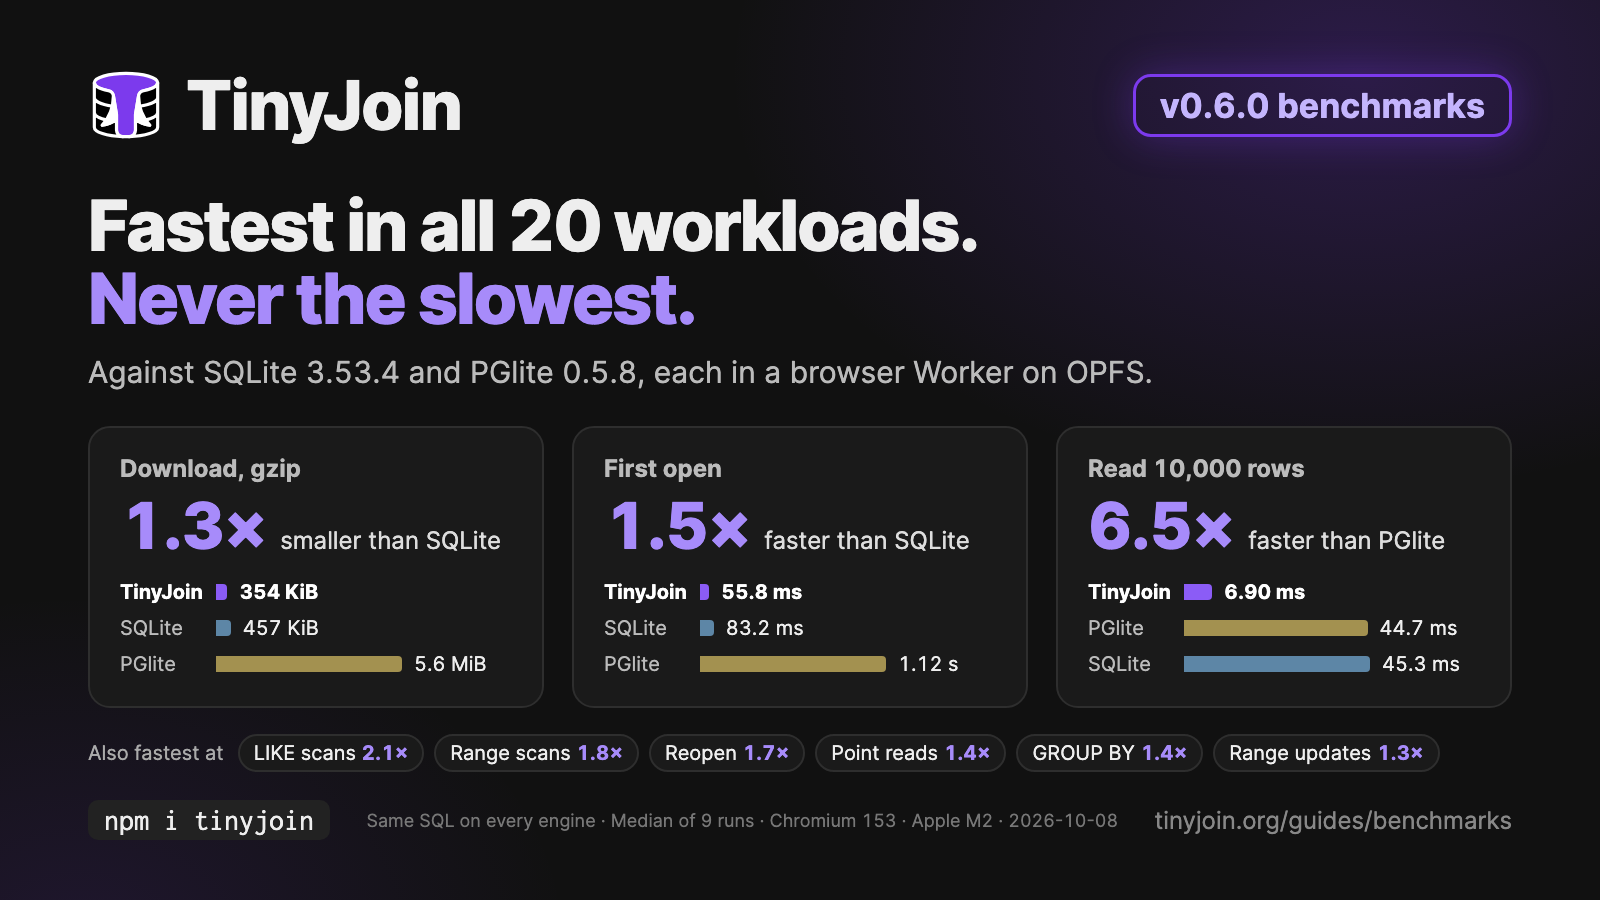
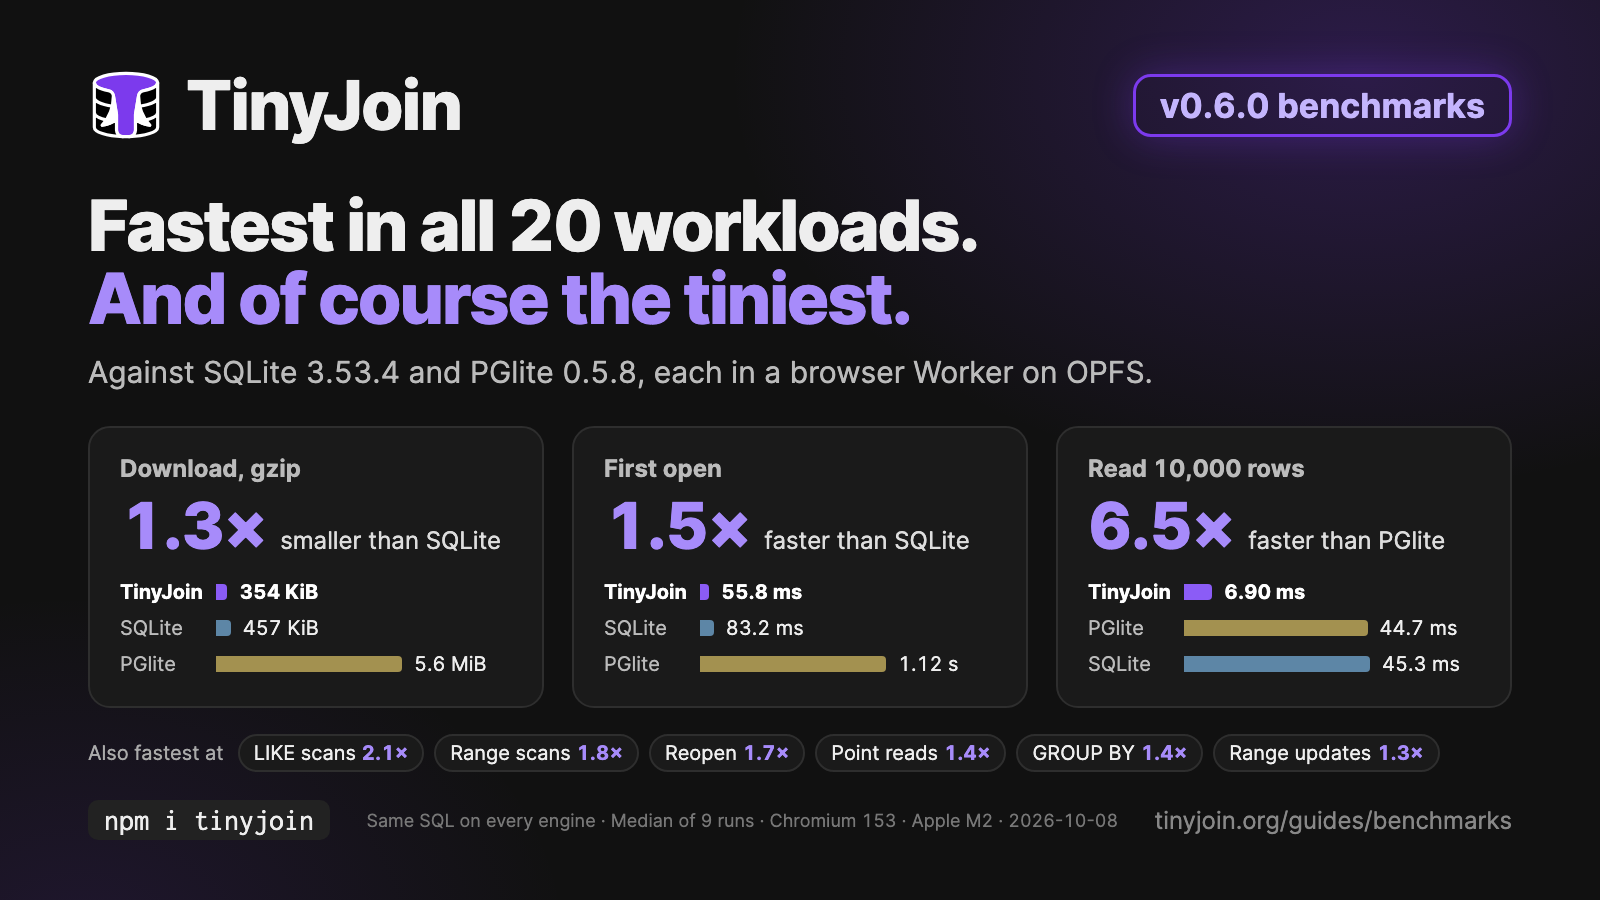
[docs] Say on the benchmark card that the fastest engine is also the tiniest
Under "Fastest in all 20 workloads", the card's second line read "Never the slowest", which the first had already said. Where TinyJoin is the fastest in every workload, the line is now about its size, when its download is also the smallest of the three, as the card's first tile shows it to be: "And of course the tiniest." A clean sweep with a larger download would read "Second to none", and any other result keeps the lines it had.

Changed region(s): [[0.0312, 0.28, 0.5625, 0.3733]]

diff --git a/site/benchmarks.ts b/site/benchmarks.ts
@@ -536,17 +536,29 @@ const cardWins = (report: Report): string => {
     .join('');
 };
 
+// The card's headline: how many workloads TinyJoin is the fastest in, and under
+// it the next thing worth saying. Where it is the fastest in all of them, a
+// line about its other placings would only repeat the first, so the second is
+// about its size instead, when its download is also the smallest of the three.
 const cardHeadline = (report: Report): string => {
   const [fastest, second, slowest] = placingCounts(report)[0];
   const total = report.results.length;
+  const smallest = compare(
+    report,
+    downloadMeasure(report, ['gzip', 'Download (gzip)']),
+  ).leads;
   return (
     (fastest == total
       ? `Fastest in all ${total} workloads.`
       : `Fastest in ${fastest} of ${total} workloads.`) +
     '<br /><em>' +
-    (slowest == 0
-      ? 'Never the slowest.'
-      : `Second in ${second}, and the slowest in ${slowest}.`) +
+    (fastest == total
+      ? smallest
+        ? 'And of course the tiniest.'
+        : 'Second to none.'
+      : slowest == 0
+        ? 'Never the slowest.'
+        : `Second in ${second}, and the slowest in ${slowest}.`) +
     '</em>'
   );
 };

diff --git a/docs/benchmark-card.html b/docs/benchmark-card.html
@@ -221,7 +221,7 @@
         <span class="wordmark">TinyJoin</span>
         <span class="pill">v0.6.0 benchmarks</span>
       </header>
-      <h1>Fastest in all 20 workloads.<br /><em>Never the slowest.</em></h1>
+      <h1>Fastest in all 20 workloads.<br /><em>And of course the tiniest.</em></h1>
       <p class="sub">
         Against SQLite 3.53.4 and PGlite 0.5.8, each in a browser Worker on OPFS.
       </p>
